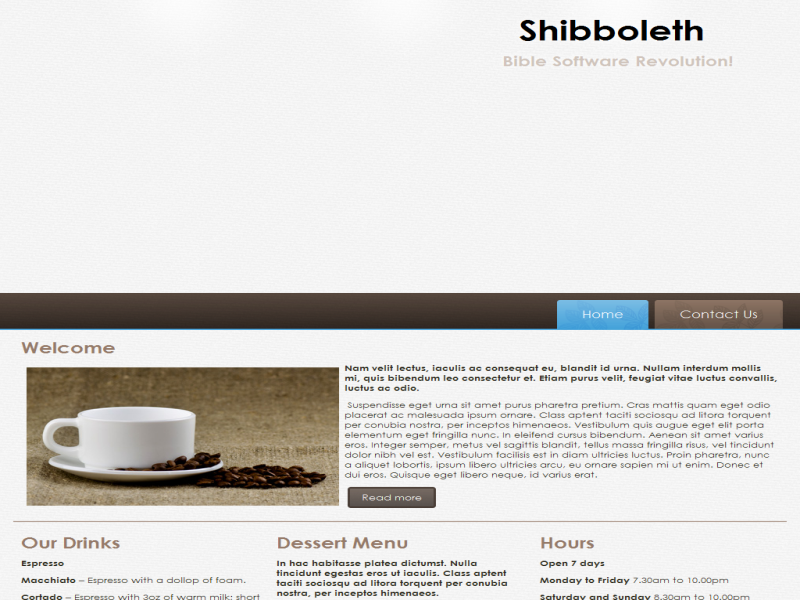
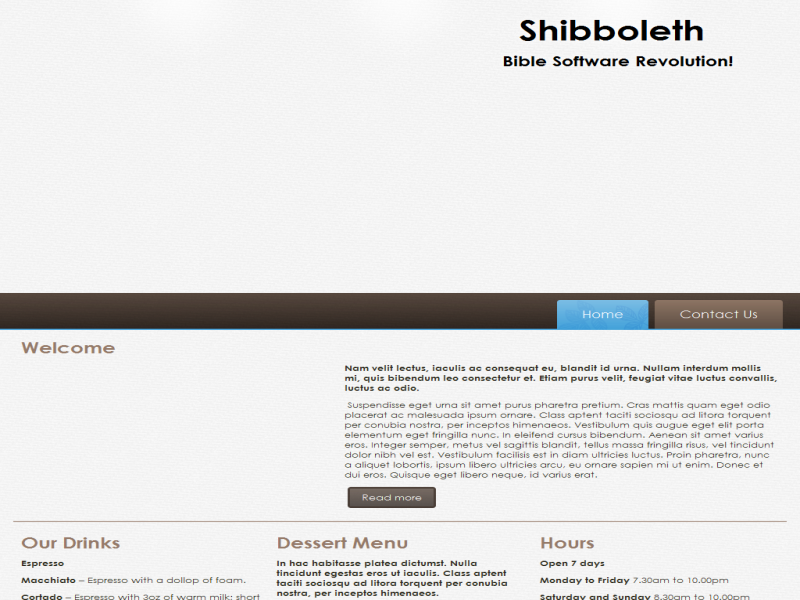
5

Changed region(s): [[0.0312, 0.6, 0.4375, 0.87], [0.625, 0.09, 0.9375, 0.12]]

diff --git a/style.css b/style.css
@@ -471,7 +471,7 @@ text-decoration: none;
 text-shadow: 0px 0px 12px rgb(255, 255, 255);
   padding: 0;
   margin: 0;
-  color: #D0C5BD !important;
+  color: #000000 !important;
 }
 
 
